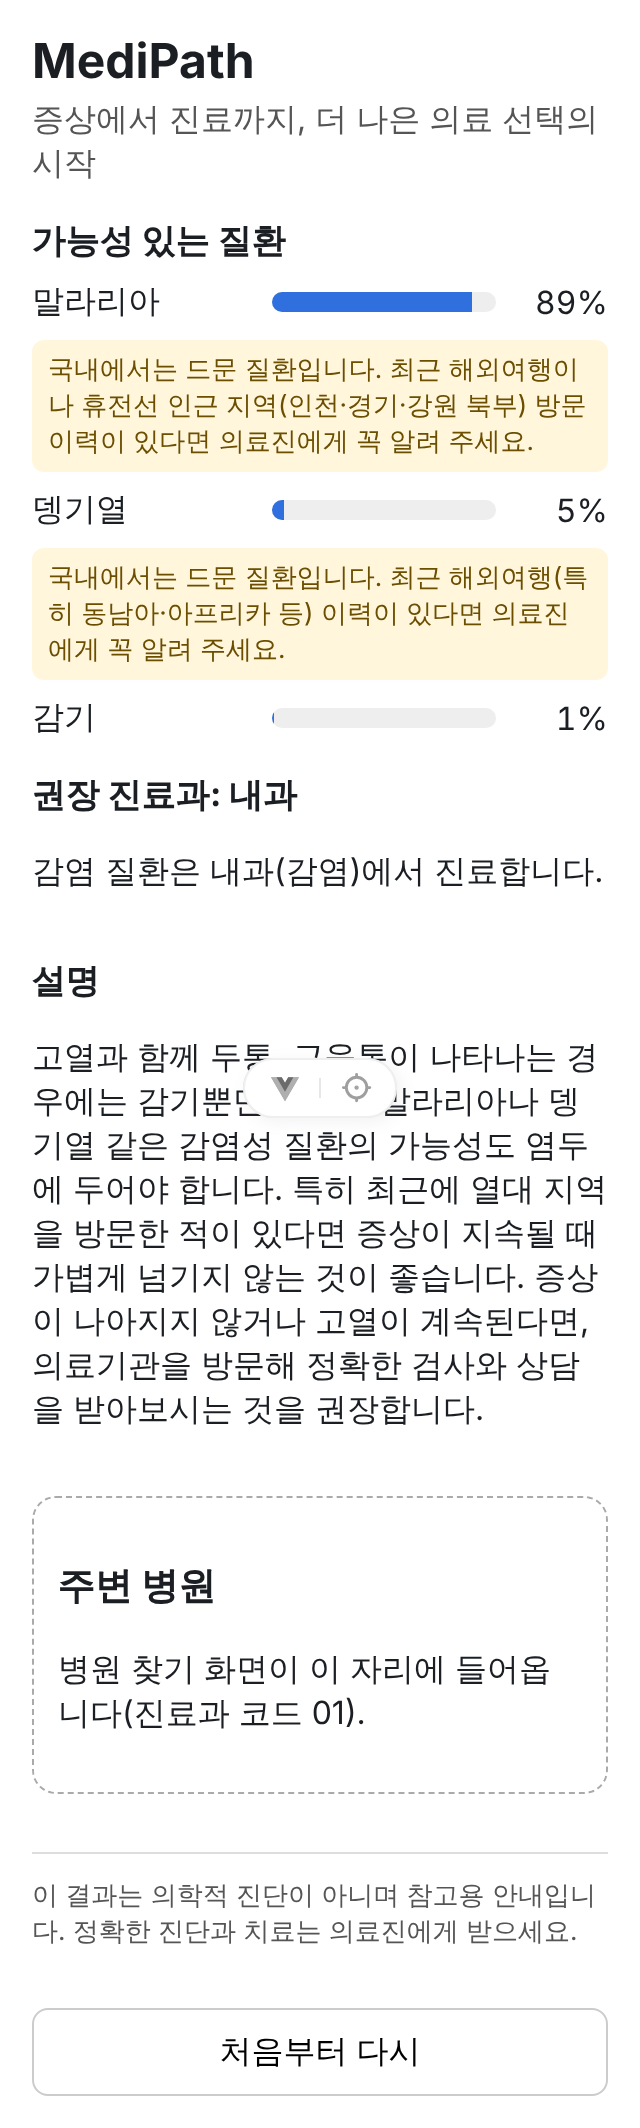
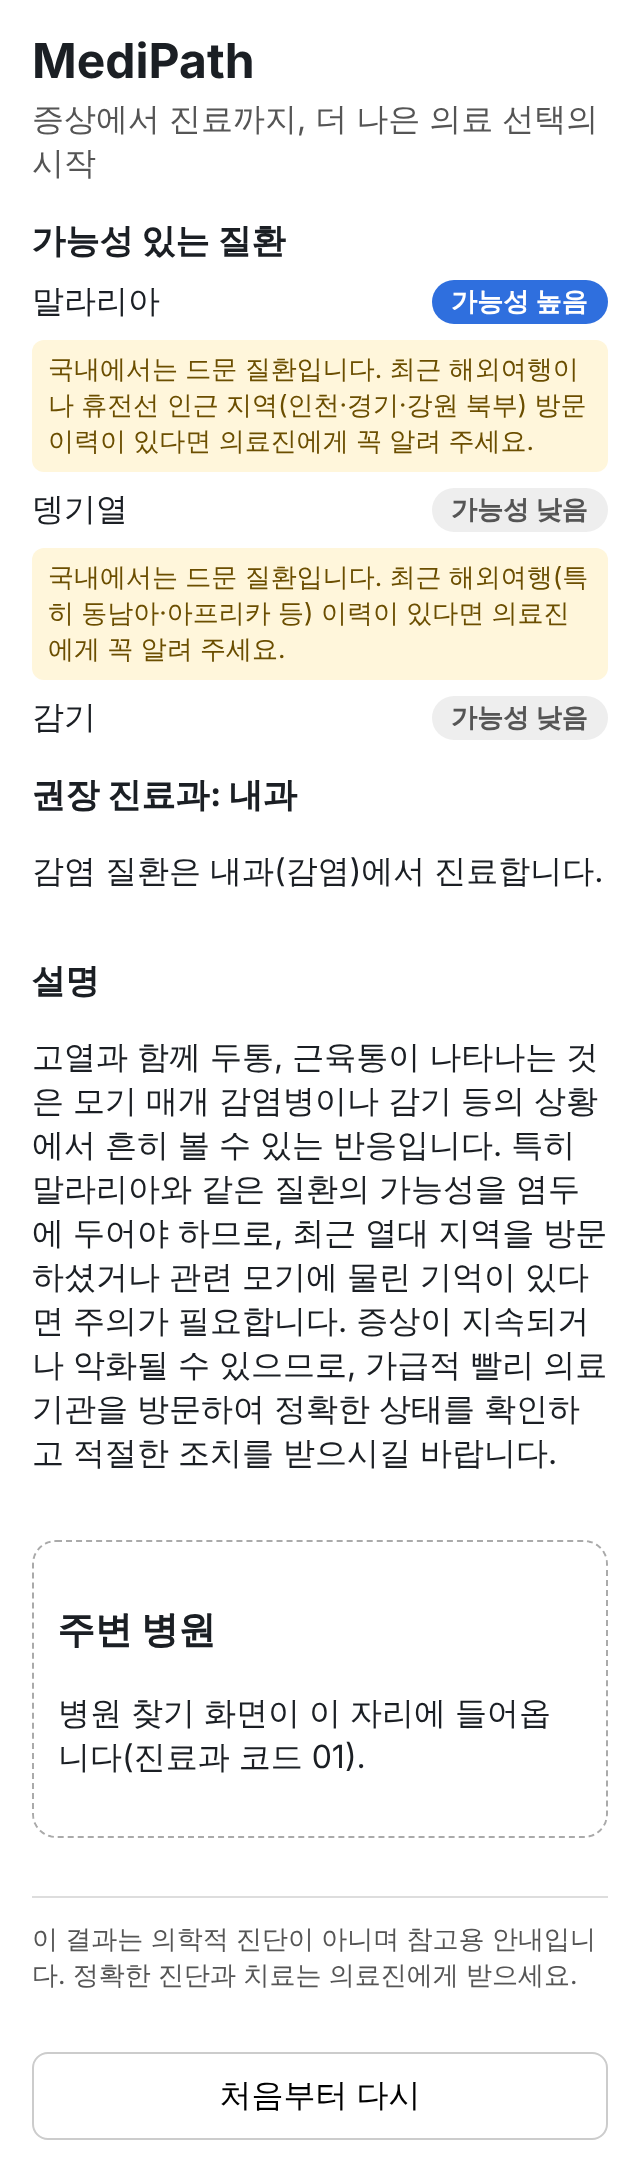
docs(web-frontend): 375px captures with likelihood labels (demo and rare-disease)
Claude-Session: https://claude.ai/code/session_01Jz5RDcX6884KJrp5Vw51g4

diff --git a/docs/perf/rare-disease-weight.md b/docs/perf/rare-disease-weight.md
@@ -31,12 +31,11 @@
 - "열·두통·몸살" 계열 4가지 중 **고열·두통·근육통**은 어느 가중치에서도 말라리아가 1위입니다(모델 확률 말라리아 0.888, 다음 비희귀 질환 감기 0.011). 곱하기 방식으로는 이 차이를 뒤집지 못하며, 이때는 항목 아래의 안내("국내에서는 드문 질환입니다. 최근 해외여행이나 휴전선 인근 지역 … 방문 이력이 있다면 의료진에게 꼭 알려 주세요.")가 역할을 합니다.
 - 미열·두통·근육통은 0.5부터 A형 간염이 1위로 올라옵니다.
 
-## 화면 예시 (실제 Gemini + `dropout-2026.11.0`, 가중치 0.5, 375px)
+## 화면 예시 (실제 Gemini + `dropout-2026.11.0`, 가중치 0.5, 375px, 2026-11-15 단계 라벨 반영)
 
-| 입력 | 화면 Top-3 | 캡처 |
-|---|---|---|
-| 열이 펄펄 나고 머리가 아프고 근육이 쑤셔요 | 말라리아 89%(안내) · 뎅기열 5%(안내) · 감기 1%, 권장 진료과 내과 | `rare-disease-screen-high-fever.png` |
-| 열이 조금 있고 머리가 아프고 근육이 쑤셔요 | **A형 간염 32%** · 말라리아 38%(안내) · 수두 8% | `rare-disease-screen-mild-fever.png` |
+| 입력 | 화면 Top-3 | 순서 조정 안내 | 캡처 |
+|---|---|---|---|
+| 열이 펄펄 나고 머리가 아프고 근육이 쑤셔요 | 말라리아 가능성 높음(안내) · 뎅기열 낮음(안내) · 감기 낮음, 내과 | 없음(순서가 바뀌지 않음) | `rare-disease-screen-high-fever.png` |
+| 열이 조금 있고 머리가 아프고 근육이 쑤셔요 | **A형 간염 보통** · 말라리아 보통(안내) · 수두 낮음 | "국내 발생 빈도를 반영해 순서를 조정했습니다." | `rare-disease-screen-mild-fever.png` |
 
-- 둘째 예시처럼 순위를 낮추면 **화면의 퍼센트가 큰 순서가 아니게** 됩니다(확률 원값을 그대로 보여 주기 때문). 안내 문구가 이유를 알려 주지만, 화면에 "국내 발생 빈도를 반영해 순서를 조정했습니다" 같은 한 줄을 더할지는 결정이 필요합니다.
-- 캡처 가운데의 작은 아이콘은 개발 서버의 Vue 개발 도구 표시로, 빌드된 화면에는 없습니다.
+- 화면에는 확률 숫자 대신 단계 라벨만 보이므로, 순서를 낮춰도 "작은 % 가 위에 오는" 문제가 없습니다(라벨 경계: `likelihood-labels.md`).

diff --git a/docs/perf/likelihood-labels.md b/docs/perf/likelihood-labels.md
@@ -35,3 +35,13 @@
 - 0.5 / 0.15는 e2e에서 1위 높음이 76~80%로 거의 늘 높음에 가깝고, 0.8 / 0.3은 "낮음" 안에 정답이 더 많이 섞입니다(41/687).
 - 2위가 "높음"이 되는 일은 어느 후보에서도 없습니다(1위 확률이 0.5를 넘으면 나머지 합이 0.5 미만이기 때문).
 - 경계값은 설정값입니다(`LIKELIHOOD_HIGH`, `LIKELIHOOD_MEDIUM`). 모델을 바꾸면(T50) 이 스크립트로 다시 정합니다.
+
+## 화면 캡처 (375px, 실제 Gemini, 2026-11-15)
+
+| 입력 | 화면 | 순서 조정 안내 | 캡처 |
+|---|---|---|---|
+| 무릎이 붓고 걸을 때 아파요 (일반 시연) | 골관절염 높음 · 관절염 낮음 · 편두통 낮음 | 없음 | `demo-screen-knee.png` |
+| 갑자기 가슴이 아프고 식은땀이 나요 (위급 시연) | 119·응급실 안내 먼저, 심근경색 높음 · 폐렴 낮음 · 고혈압 낮음 | 없음 | `demo-screen-chest.png` |
+| 열이 조금 있고 머리가 아프고 근육이 쑤셔요 | A형 간염 보통 · 말라리아 보통(드문 질환 안내) · 수두 낮음 | 있음 | `rare-disease-screen-mild-fever.png` |
+
+세 화면 모두 `%` 문자열이 없습니다(캡처 스크립트로 확인).
